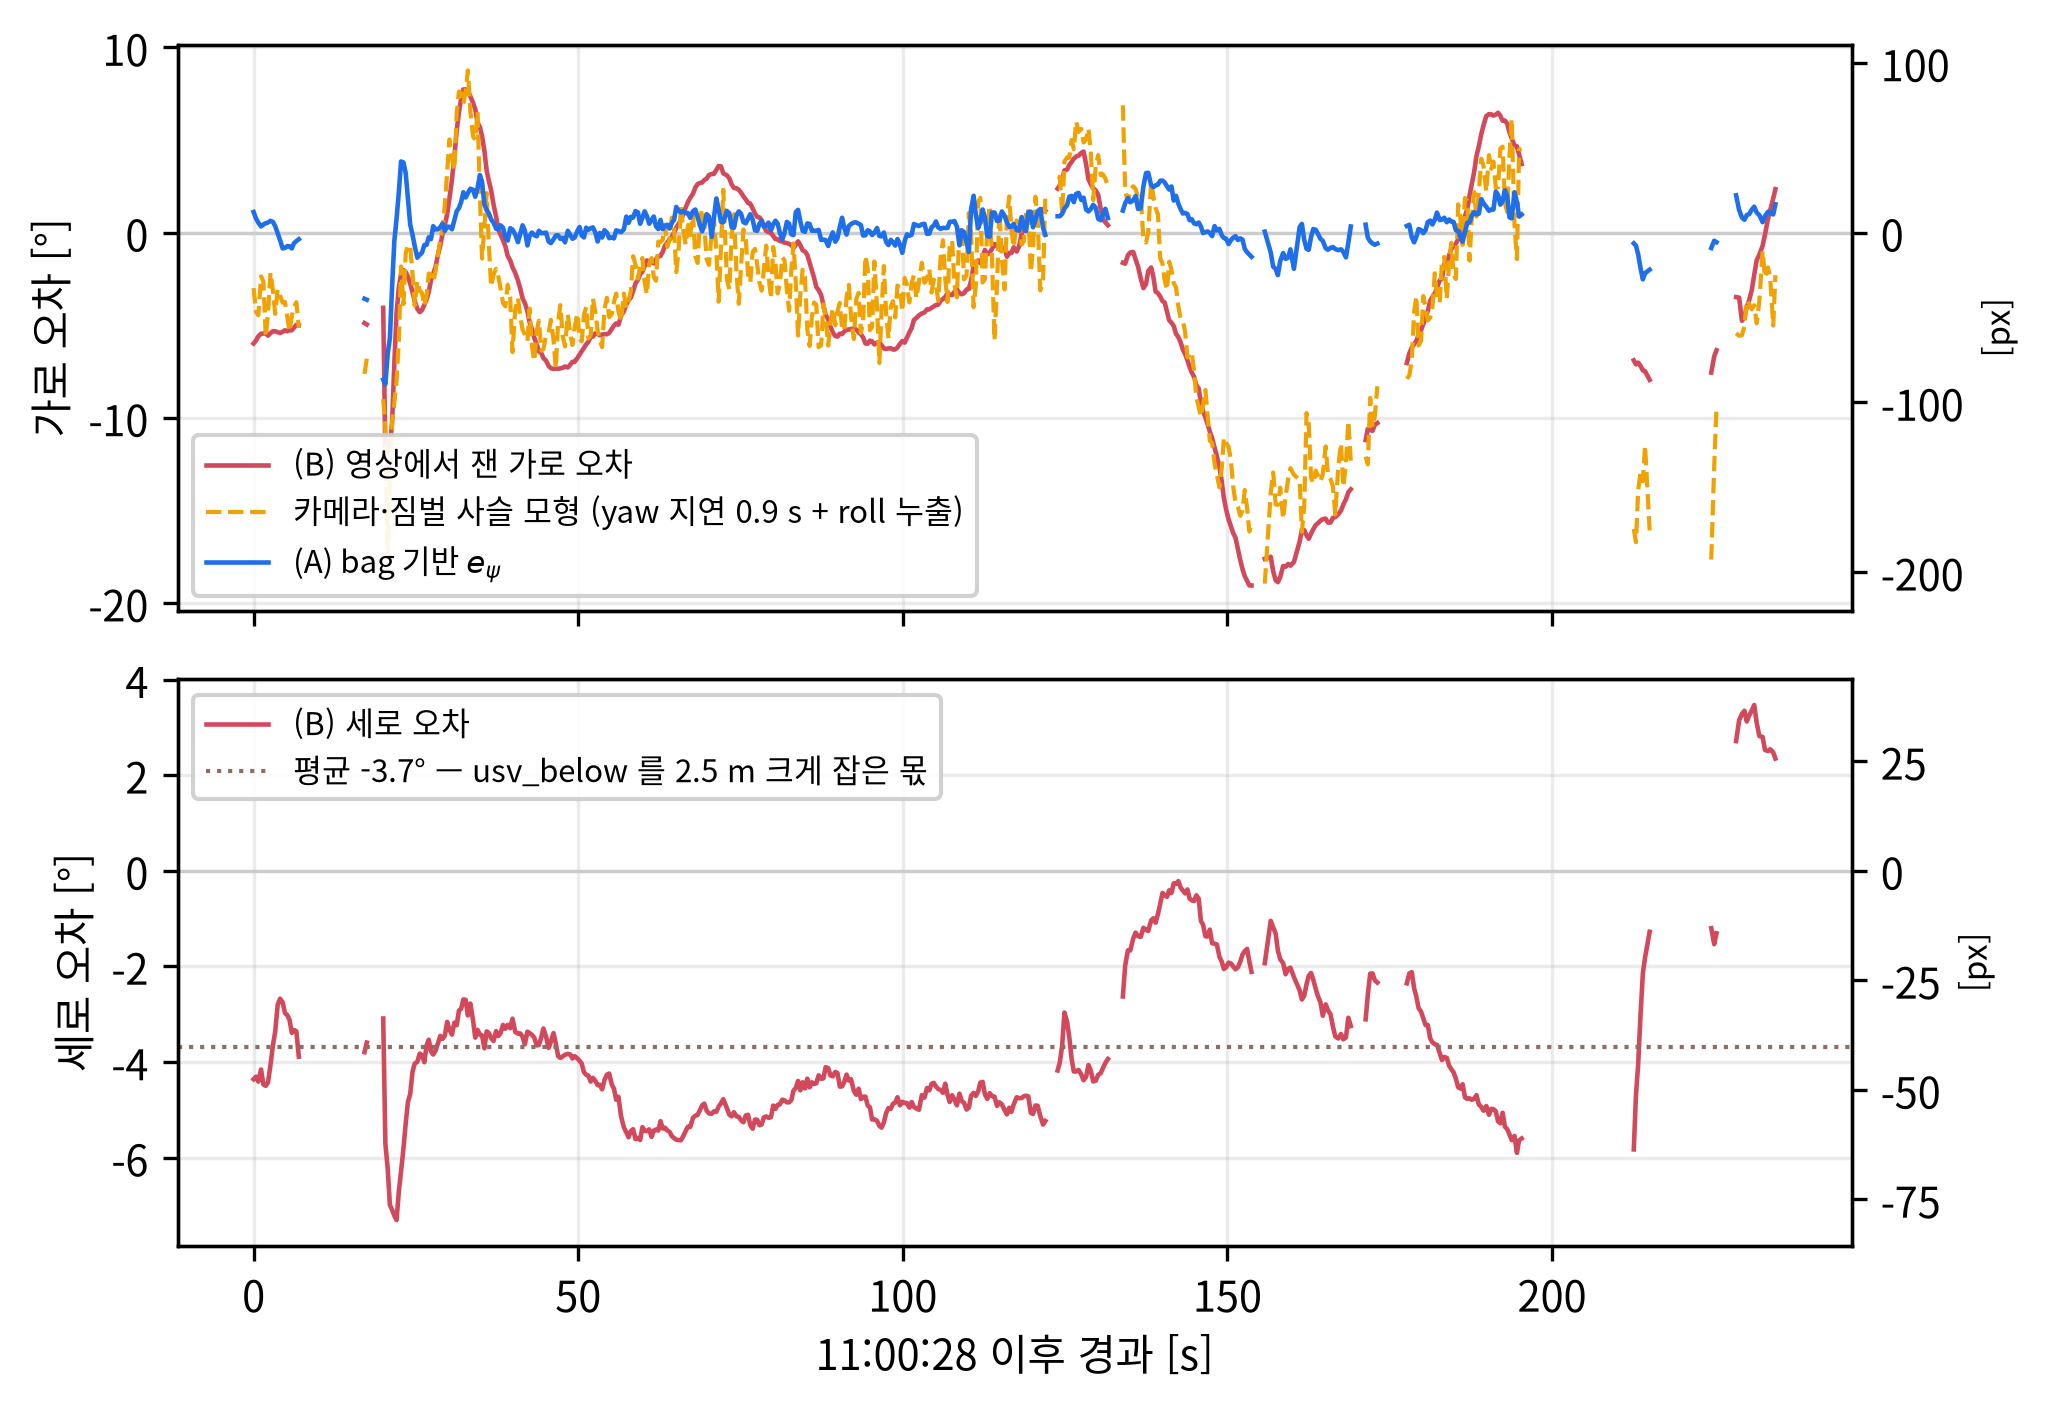
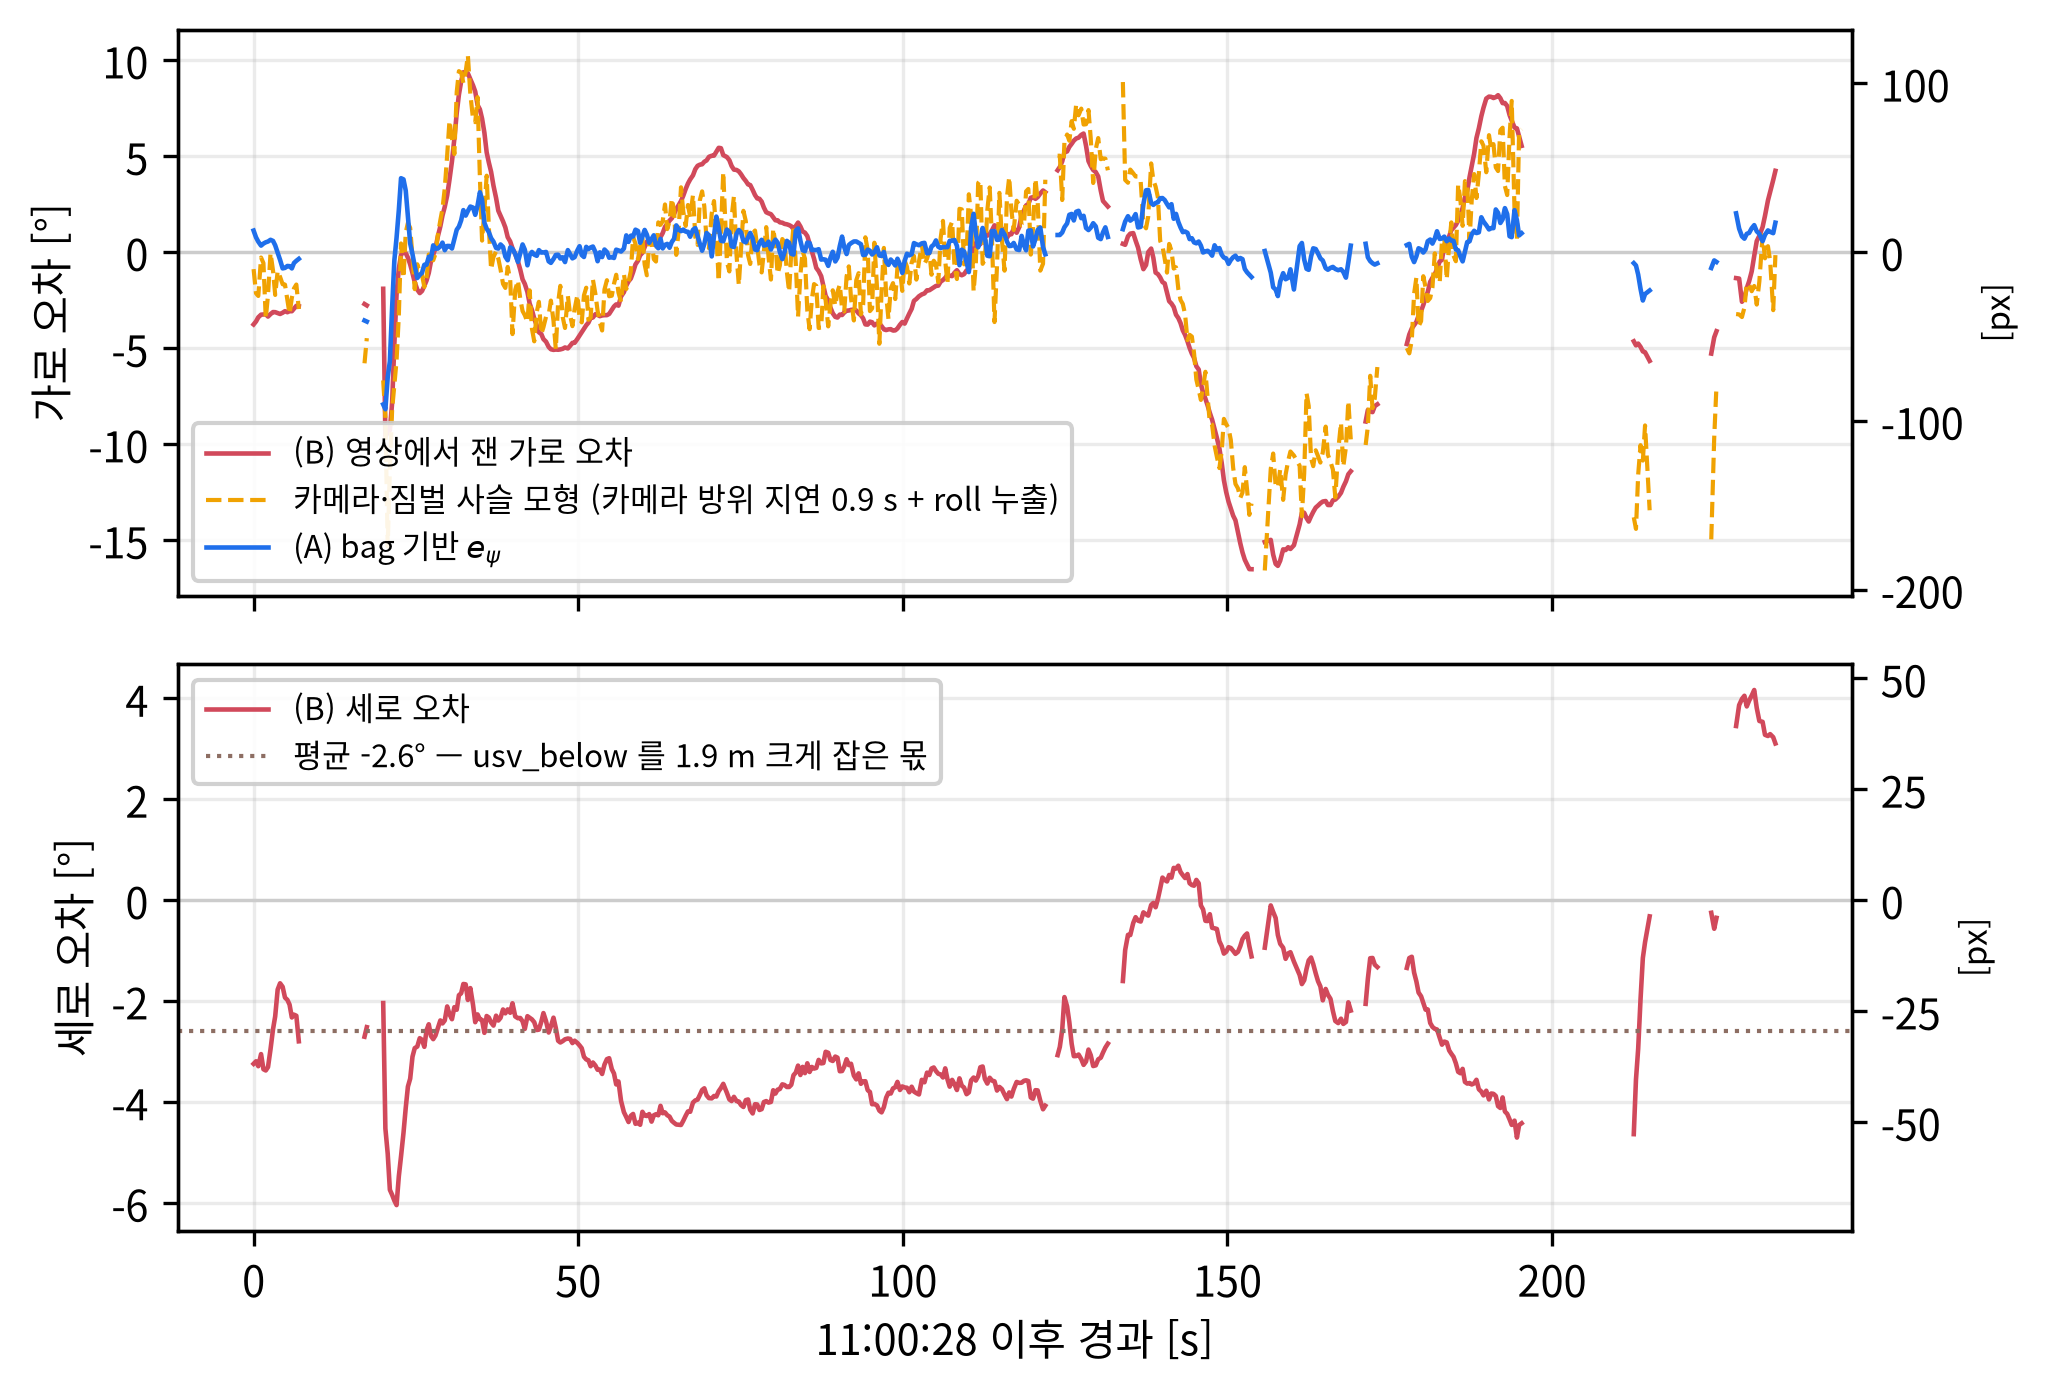
시선 유지: 카메라 보정값(816x544)으로 픽셀→각도 다시 계산
- compare.py 가 camera_816x544.yaml 을 읽어 atan((u-cx)/fx) 로 환산 (주점 기준)
  --undistort 로 왜곡 제거, --calib none 이면 예전 대략값
- 편의 -6.0→-3.8°, 지연 0.90→0.85 s, roll 계수 0.74→0.72, 잔차 2.77→2.68°,
  세로 -3.7→-2.6°, h_below 5.1→5.8 m. 결론은 그대로
- "짐벌 yaw 지연" → "카메라 방위 지연"

diff --git a/논문지/분석_시선유지/scripts/compare.py b/논문지/분석_시선유지/scripts/compare.py
@@ -4,8 +4,11 @@
     python scripts/compare.py                 # 기본 outputs/
     python scripts/compare.py --out outputs_XX
 
-맞대는 법 — 픽셀을 각도로 바꾼다 (camera_info 의 fx, fy)
-    (B) 가로 = atan(dx / fx),  세로 = atan(dy / fy).  1° = fx·tan1° = 10.9 px
+맞대는 법 — 픽셀을 각도로 바꾼다 (보정 yaml 의 fx, fy, cx, cy)
+    (B) 가로 = atan((u - cx) / fx),  세로 = atan((v - cy) / fy).  (u, v) = USV 마스크 중심
+    보정값: camera_816x544.yaml (2026-11-23, 분석 해상도 816x544 에서 직접 보정 -> 배율 없이 쓴다)
+    렌즈 왜곡 영향은 최대 0.1° 라 기본은 끈다. --undistort 로 켜서 확인할 수 있다.
+    --calib none 이면 예전처럼 camera_info.json 의 대략값(fx 625, 화면 중앙)을 쓴다.
 
 (A) 와 (B) 는 **같은 양이 아니다.** (A) 는 기수(psi)에 대한 시선 오차고, (B) 는 카메라
 광축에 대한 시선 오차다. 둘 사이에 카메라/짐벌 사슬이 끼어 있다.
@@ -48,16 +51,45 @@ def rms(x):
     return float(np.sqrt(np.mean(x[~np.isnan(x)] ** 2)))
 
 
+def load_camera(calib, out):
+    """(fx, fy, cx, cy, D, 출처) — calib 가 None 이면 out/camera_info.json"""
+    if calib is None:
+        cam = json.loads((out / "camera_info.json").read_text())
+        return cam["fx"], cam["fy"], cam["cx"], cam["cy"], None, "camera_info.json (대략값)"
+    import yaml
+    y = yaml.safe_load(Path(calib).read_text())
+    if (y["image_width"], y["image_height"]) != (816, 544):
+        raise SystemExit(f"{calib}: 해상도가 816x544 가 아니다 — K 배율을 맞춰야 한다")
+    K = y["camera_matrix"]["data"]
+    D = np.array(y["distortion_coefficients"]["data"], dtype=float)
+    return K[0], K[4], K[2], K[5], D, Path(calib).name
+
+
 def main():
     global OUT
     import argparse
     ap = argparse.ArgumentParser()
     ap.add_argument("--out", type=Path, default=OUT, help="analyze_a.py·track_b.py 가 쓴 폴더")
-    OUT = ap.parse_args().out
+    ap.add_argument("--calib", default=str(HERE / "camera_816x544.yaml"),
+                    help="보정 yaml (ost.yaml 형식). 'none' 이면 camera_info.json 대략값")
+    ap.add_argument("--undistort", action="store_true", help="렌즈 왜곡까지 제거해서 각도를 낸다")
+    args = ap.parse_args()
+    OUT = args.out
 
-    cam = json.loads((OUT / "camera_info.json").read_text())
-    fx, fy = cam["fx"], cam["fy"]
+    fx, fy, cx, cy, D, cam_src = load_camera(None if args.calib == "none" else args.calib, OUT)
+    if args.undistort and D is None:
+        raise SystemExit("--undistort 는 보정 yaml 이 있어야 한다")
     px_per_deg = fx * math.tan(math.radians(1))
+
+    def pix2ang(u, v):
+        """마스크 중심 (u, v) -> (가로°, 세로°, dx, dy). dx, dy 는 주점 기준 px"""
+        if args.undistort:
+            import cv2
+            K = np.array([[fx, 0, cx], [0, fy, cy], [0, 0, 1]])
+            xn, yn = cv2.undistortPoints(np.array([[[u, v]]], dtype=np.float64), K, D)[0, 0]
+        else:
+            xn, yn = (u - cx) / fx, (v - cy) / fy
+        return math.degrees(math.atan(xn)), math.degrees(math.atan(yn)), u - cx, v - cy
 
     # 5Hz 전체 시계열 — 지연을 넣으려면 프레임 시각 사이를 메워야 한다. 각도는 unwrap 하고 보간
     S = list(csv.DictReader((OUT / "a_timeseries.csv").open()))
@@ -74,14 +106,14 @@ def main():
         a = A.get(int(float(r["t"]) * 1000))
         if a is None:
             continue
+        b_x, b_y, dx, dy = pix2ang(float(r["cx"]), float(r["cy"]))
         rows.append(dict(
             idx=int(r["idx"]), t=float(r["t"]),
             e_psi=float(a["e_psi"]), e_psi_ctrl=float(a["e_psi_ctrl"]),
             horiz=float(a["horiz"]), rel_alt=float(a["rel_alt"]), roll=float(a["roll"]),
             tilt_cmd=float(a["tilt_cmd"]), usv_spd=float(a["usv_spd"]),
-            dx=float(r["dx"]), dy=float(r["dy"]), area=int(r["area"]),
-            b_x=math.degrees(math.atan(float(r["dx"]) / fx)),
-            b_y=math.degrees(math.atan(float(r["dy"]) / fy))))
+            dx=round(dx, 2), dy=round(dy, 2), area=int(r["area"]),
+            b_x=b_x, b_y=b_y))
     if not rows:
         raise SystemExit("겹치는 프레임이 없다 — track_b.py 를 먼저 돌린다")
 
@@ -93,7 +125,7 @@ def main():
     horiz = np.array([r["horiz"] for r in rows])
     alt = np.array([r["rel_alt"] for r in rows])
 
-    # ---- 카메라/짐벌 사슬 모형: 짐벌 yaw 지연 T 와 roll 누출 계수를 함께 맞춘다
+    # ---- 카메라/짐벌 사슬 모형: 카메라 방위 지연 T 와 roll 누출 계수를 함께 맞춘다
     def chain(T):
         psi_d = np.interp(t, ts, psid_u)
         cam_yaw = np.interp(t - T, ts, hdg_u)       # 기수를 T 초 늦게 따라온 카메라 방위
@@ -130,6 +162,8 @@ def main():
 
     L = []
     L.append("DT0503 시선 유지 — (A) bag 기반 · (B) SAM2 영상 판독 비교")
+    L.append(f"카메라: {cam_src} — fx {fx:.1f}, fy {fy:.1f}, cx {cx:.1f}, cy {cy:.1f} px"
+             + (" · 렌즈 왜곡 제거" if args.undistort else ""))
     L.append(f"맞댄 프레임 {len(rows)} 장 · {datetime.datetime.fromtimestamp(t[0], KST):%H:%M:%S}"
              f"~{datetime.datetime.fromtimestamp(t[-1], KST):%H:%M:%S} · 1° = {px_per_deg:.1f} px")
     dt = np.diff(t)
@@ -140,13 +174,13 @@ def main():
     L.append("가로 (기수각)")
     L.append(f"  (A) e_psi        평균 {A_x.mean():+.2f}°  RMS {rms(A_x):.2f}°  "
              f"최대 {np.abs(A_x).max():.2f}°")
-    L.append(f"  (B) atan(dx/fx)  평균 {B_x.mean():+.2f}° ({np.mean([r['dx'] for r in rows]):+.0f} px)"
+    L.append(f"  (B) atan((u-cx)/fx) 평균 {B_x.mean():+.2f}° ({np.mean([r['dx'] for r in rows]):+.0f} px)"
              f"  RMS(편의 제거) {rms(B_x - B_x.mean()):.2f}°  최대 {np.abs(B_x).max():.2f}°")
     L.append(f"  → (B) 의 변동이 (A) 의 {rms(B_x-B_x.mean())/rms(A_x):.1f} 배다. 같지 않다.")
     L.append("")
     L.append("  (B) 와 (A) 사이에 낀 카메라/짐벌 사슬을 모형으로 벗겨낸다")
     L.append(f"    고정 편의      {bias_fit:+.2f}°  — 짐벌 yaw 0 이 기수가 아니라 앱 시작 방향이라서")
-    L.append(f"    짐벌 yaw 지연  {T_YAW:.2f} s   — yaw 축만 기체에 붙어 기수를 늦게 따라온다")
+    L.append(f"    카메라 방위 지연 {T_YAW:.2f} s — 카메라가 기수를 늦게 따라온다 (영상 전송 지연 포함)")
     L.append(f"    roll 누출      {k_roll:+.3f} °/°  — 틸트 {np.nanmean(tilt):.1f}° 에서 "
              f"sin(틸트) = {sin_tilt:.2f} 로 예상되는 값과 맞는다")
     L.append("")
@@ -155,14 +189,14 @@ def main():
     v = B_x - A_x
     L.append(f"    − (A) e_psi                     {rms(v - v.mean()):.2f}°")
     v = B_x - base
-    L.append(f"    − 짐벌 yaw 지연 {T_YAW:.2f} s           {rms(v - v.mean()):.2f}°")
+    L.append(f"    − 카메라 방위 지연 {T_YAW:.2f} s        {rms(v - v.mean()):.2f}°")
     L.append(f"    − roll 누출까지                 {resid_rms:.2f}°")
     L.append(f"    (A) e_psi 자체                  {rms(A_x):.2f}°   ← 여기까지 내려오면 같아진다")
     L.append(f"  상관: (A)-(B) {np.corrcoef(A_x, B_x)[0,1]:.3f} → 모형-(B) "
              f"{np.corrcoef(model, B_x)[0,1]:.3f}")
     L.append("")
     L.append("세로 (짐벌 틸트)")
-    L.append(f"  (B) atan(dy/fy) 평균 {B_y.mean():+.2f}° ({np.mean([r['dy'] for r in rows]):+.0f} px)"
+    L.append(f"  (B) atan((v-cy)/fy) 평균 {B_y.mean():+.2f}° ({np.mean([r['dy'] for r in rows]):+.0f} px)"
              f"  변동 RMS {rms(B_y - B_y.mean()):.2f}°")
     L.append(f"  틸트 명령이 가정한 usv_below = {below_cmd:.1f} m (런치 기본 8.0 m)")
     L.append(f"  영상에서 거꾸로 푼 실제 높이차 = {below_true:.1f} m")
@@ -176,7 +210,7 @@ def main():
     L.append(f"     위치 갱신 지연이 시선을 망친 것은 아니다.")
     L.append(f"  2) 그런데 화면에서는 RMS {rms(B_x-B_x.mean()):.1f}° 로 더 크게 흔들렸다. 그 차이는")
     L.append(f"     기수 제어가 아니라 **카메라가 기수를 따라오는 사슬**에서 생겼다 —")
-    L.append(f"     짐벌 yaw 지연 {T_YAW:.1f} s 와 틸트 {np.nanmean(tilt):.0f}° 에서의 roll 누출")
+    L.append(f"     카메라 방위 지연 {T_YAW:.1f} s 와 틸트 {np.nanmean(tilt):.0f}° 에서의 roll 누출")
     L.append(f"     (계수 {abs(k_roll):.2f} ≈ sin{abs(np.nanmean(tilt)):.0f}° = {sin_tilt:.2f}).")
     L.append(f"     둘을 빼면 {resid_rms:.1f}° 만 남는다.")
     L.append(f"  3) 고정 편의는 가로 {bias_fit:+.1f}°(짐벌 yaw 기준점)·세로 {B_y.mean():+.1f}°"
@@ -202,7 +236,7 @@ def main():
     ax[0].axhline(0, color="0.8", lw=0.8)
     ax[0].plot(x, brk(B_x), lw=1.1, color="#d1495b", label="(B) 영상에서 잰 가로 오차")
     ax[0].plot(x, brk(model), lw=1.0, color="#f0a202", ls="--",
-               label=f"카메라·짐벌 사슬 모형 (yaw 지연 {T_YAW:.1f} s + roll 누출)")
+               label=f"카메라·짐벌 사슬 모형 (카메라 방위 지연 {T_YAW:.1f} s + roll 누출)")
     ax[0].plot(x, brk(A_x), lw=1.1, color="#1f6feb", label="(A) bag 기반 $e_\\psi$")
     ax[0].set_ylabel("가로 오차 [°]")
     ax[0].legend(fontsize=7.5, ncol=1, loc="lower left", framealpha=0.9)

diff --git a/논문지/분석_시선유지/results_DT0503/README.md b/논문지/분석_시선유지/results_DT0503/README.md
@@ -1,4 +1,4 @@
-# DT0503 결과 (2026-11-17)
+# DT0503 결과 (2026-11-17, 카메라 보정 반영 2026-11-23)
 
 `outputs/`는 Git에 안 올린다(데이터·CSV·영상). 집에서도 볼 수 있게 **요약과 그림만** 여기 둔다.
 다시 만들려면 데이터를 `data/`에 놓고 루트 README의 "작업 순서"대로 돌린다.
